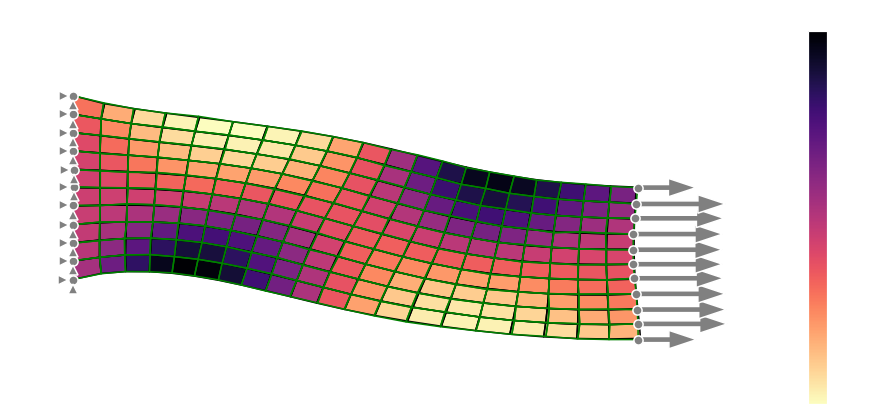
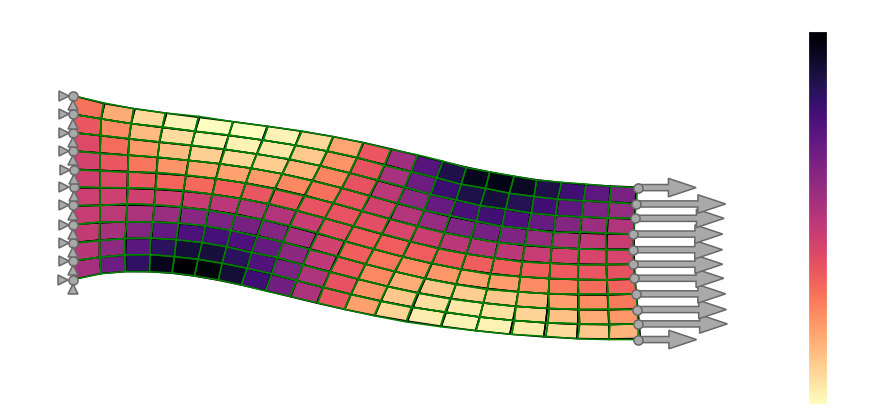
Tweak plot styles.

Changed region(s): [[0.7033, 0.4337, 0.8256, 0.8386], [0.0612, 0.2024, 0.0917, 0.7229]]

diff --git a/src/torchfem/plot_utils.py b/src/torchfem/plot_utils.py
@@ -5,7 +5,7 @@ from typing import cast
 
 import pyvista
 import torch
-from matplotlib import patheffects, rcParams
+from matplotlib import patheffects
 from matplotlib.axes import Axes
 from matplotlib.transforms import ScaledTranslation
 from torch import Tensor
@@ -175,25 +175,33 @@ def dots(pl: pyvista.Plotter, points: Tensor, radius: float):
 
 
 # Boundary conditions in a matplotlib plot. Every glyph is gray and outlined in
-# the foreground of the style, sized in points so it looks the same on any mesh.
+# a darker gray, sized in points so it looks the same on any mesh.
 
 MARKERSIZE = 6.0
-
-# A node label sits diagonally off its node, clear of the marker drawn there
-LABEL_OFFSET = {"textcoords": "offset points", "xytext": (MARKERSIZE, MARKERSIZE)}
+FILL = "darkgray"
+OUTLINE = "dimgray"
 
 
 def _glyph(size: float = MARKERSIZE, zorder: float = 10, **kwargs) -> dict:
-    """Keywords drawing a marker, taking its outline from the current style."""
+    """Keywords drawing a gray marker with a darker outline."""
     return {
-        "markerfacecolor": "gray",
-        "markeredgecolor": rcParams["text.color"],
+        "markerfacecolor": FILL,
+        "markeredgecolor": OUTLINE,
         "markeredgewidth": 1.0,
         "markersize": size,
         "zorder": zorder,
         "clip_on": False,
         **kwargs,
     }
+
+
+def labels2d(ax: Axes, points: Tensor):
+    """Number every point, diagonally off it and a point clear of its marker."""
+    gap = MARKERSIZE / 2 + 1
+    for i, point in enumerate(points.tolist()):
+        ax.annotate(
+            str(i), point, xytext=(gap, gap), textcoords="offset points", c=OUTLINE
+        )
 
 
 def dots2d(ax: Axes, points: Tensor, zorder: float = 12):
@@ -223,8 +231,8 @@ def arrows2d(
     style = {
         "width": width,
         "length_includes_head": span is None,
-        "facecolor": "gray",
-        "edgecolor": rcParams["text.color"],
+        "facecolor": FILL,
+        "edgecolor": OUTLINE,
         "linewidth": 1.0,
         # Above the constraint markers a load may share a node with
         "zorder": 11,
@@ -259,8 +267,8 @@ def signs2d(ax: Axes, points: Tensor, values: Tensor, robin: Tensor):
     Robin surface with a tilde."""
     # A line marker carries no fill, so it is drawn larger and heavier, and
     # outlined by a stroke beneath it like the filled glyphs
-    outline = patheffects.withStroke(linewidth=3.5, foreground=rcParams["text.color"])
-    style = _glyph(1.5 * MARKERSIZE, markeredgecolor="gray", markeredgewidth=2.0)
+    outline = patheffects.withStroke(linewidth=3.5, foreground=OUTLINE)
+    style = _glyph(1.5 * MARKERSIZE, markeredgecolor=FILL, markeredgewidth=2.0)
     style["path_effects"] = [outline]
     marks = [("+", values > 0.0), ("_", values < 0.0), ("$\\sim$", robin)]
     for marker, drawn in marks:

diff --git a/src/torchfem/planar.py b/src/torchfem/planar.py
@@ -9,7 +9,7 @@ from torch import Tensor
 from .base import FEM, Heat, Mechanics
 from .elements import Quad1, Quad2, Tria1, Tria2
 from .materials import Material
-from .plot_utils import LABEL_OFFSET, arrows2d, dots2d, markers2d, signs2d
+from .plot_utils import arrows2d, dots2d, labels2d, markers2d, signs2d
 
 
 class PlanarGeometry(FEM):
@@ -99,8 +99,8 @@ class PlanarGeometry(FEM):
                 position the node was pulled to. A heat flux is drawn as a plus
                 or a minus, a convecting edge as tildes on its nodes, and a
                 prescribed temperature keeps its marker.
-            color: Element fill color. Edges, markers and labels follow the foreground
-                of the style.
+            color: Element fill color. Edges are black, and node markers and labels
+                gray, in every style.
             alpha: Opacity of nodal contour plots.
             cmap: Matplotlib colormap or its name.
             linewidth: Element edge line width. Set to 0.0 to hide edges.
@@ -111,7 +111,7 @@ class PlanarGeometry(FEM):
             title: Plot title.
             ax: Existing matplotlib axes to plot into.
             **kwargs: Forwarded to the `PolyCollection` of the elements, e.g.
-                `edgecolor` to override the foreground or `hatch` to fill them
+                `edgecolor` to recolor the edges or `hatch` to fill them
                 with a pattern.
         """
         # Compute deformed positions
@@ -134,9 +134,6 @@ class PlanarGeometry(FEM):
         # Create a figure unless axes are given
         if ax is None:
             _, ax = plt.subplots(figsize=figsize)
-
-        # Edges, markers and labels follow the style, so a dark theme flips them
-        foreground = plt.rcParams["text.color"]
 
         # Quadratic elements are drawn through their corner nodes
         corners = elements[:, :3] if self.etype in (Tria1, Tria2) else elements[:, :4]
@@ -208,7 +205,7 @@ class PlanarGeometry(FEM):
             PolyCollection(
                 verts,
                 facecolors="none" if colored else color,
-                edgecolors=foreground,
+                edgecolors="black",
                 linewidths=linewidth,
                 **kwargs,
             )
@@ -216,10 +213,9 @@ class PlanarGeometry(FEM):
 
         # Nodes
         if node_markers:
-            ax.scatter(pos[:, 0], pos[:, 1], color=foreground, marker="o", zorder=3)
+            dots2d(ax, pos, zorder=3)
         if node_labels:
-            for i, (x, y) in enumerate(pos.tolist()):
-                ax.annotate(str(i), (x, y), color=foreground, **LABEL_OFFSET)
+            labels2d(ax, pos)
 
         # Boundary conditions
         tips = [pos]

diff --git a/src/torchfem/truss.py b/src/torchfem/truss.py
@@ -12,7 +12,7 @@ from torch import Tensor
 from .base import FEM, Heat, Mechanics
 from .elements import Bar1, Bar2
 from .materials import Material
-from .plot_utils import LABEL_OFFSET, arrows, arrows2d, cones, dots, dots2d, markers2d
+from .plot_utils import arrows, arrows2d, cones, dots, dots2d, labels2d, markers2d
 
 # isort: split
 from .plot_utils import new_plotter, show_plotter
@@ -93,7 +93,7 @@ class TrussGeometry(FEM):
         show_thickness: bool = False,
         thickness_threshold: float = 0.0,
         bcs: bool = True,
-        default_color: str = "black",
+        default_color: str | None = None,
         cmap: str | Colormap = "viridis",
         title: str | None = None,
         axes: bool = False,
@@ -119,7 +119,8 @@ class TrussGeometry(FEM):
                 scale as arrows with a dot at the tip instead of a marker. In
                 the deformed configuration, only the dot is drawn, marking the
                 position the node was pulled to.
-            default_color: Bar, node, and label color.
+            default_color: Bar color, the foreground of the style if omitted. Nodes
+                and labels are gray.
             cmap: Matplotlib colormap or its name.
             title: Plot title.
             axes: If True, shows the coordinate axes.
@@ -155,14 +156,13 @@ class TrussGeometry(FEM):
             sm = plt.cm.ScalarMappable(cmap=cm, norm=Normalize(vmin=vmin, vmax=vmax))
             plt.colorbar(sm, ax=ax, shrink=0.5, label=label)
         else:
-            color = self.n_elem * [default_color]
+            color = self.n_elem * [default_color or plt.rcParams["text.color"]]
 
         # Nodes
         pos = self.nodes + u
-        ax.scatter(pos[:, 0], pos[:, 1], color=default_color, marker="o", zorder=10)
+        dots2d(ax, pos, zorder=10)
         if node_labels:
-            for i, (x, y) in enumerate(pos.tolist()):
-                ax.annotate(str(i), (x, y), color=default_color, **LABEL_OFFSET)
+            labels2d(ax, pos)
 
         # Bounding box
         size = torch.linalg.norm(pos.max(dim=0).values - pos.min(dim=0).values)
